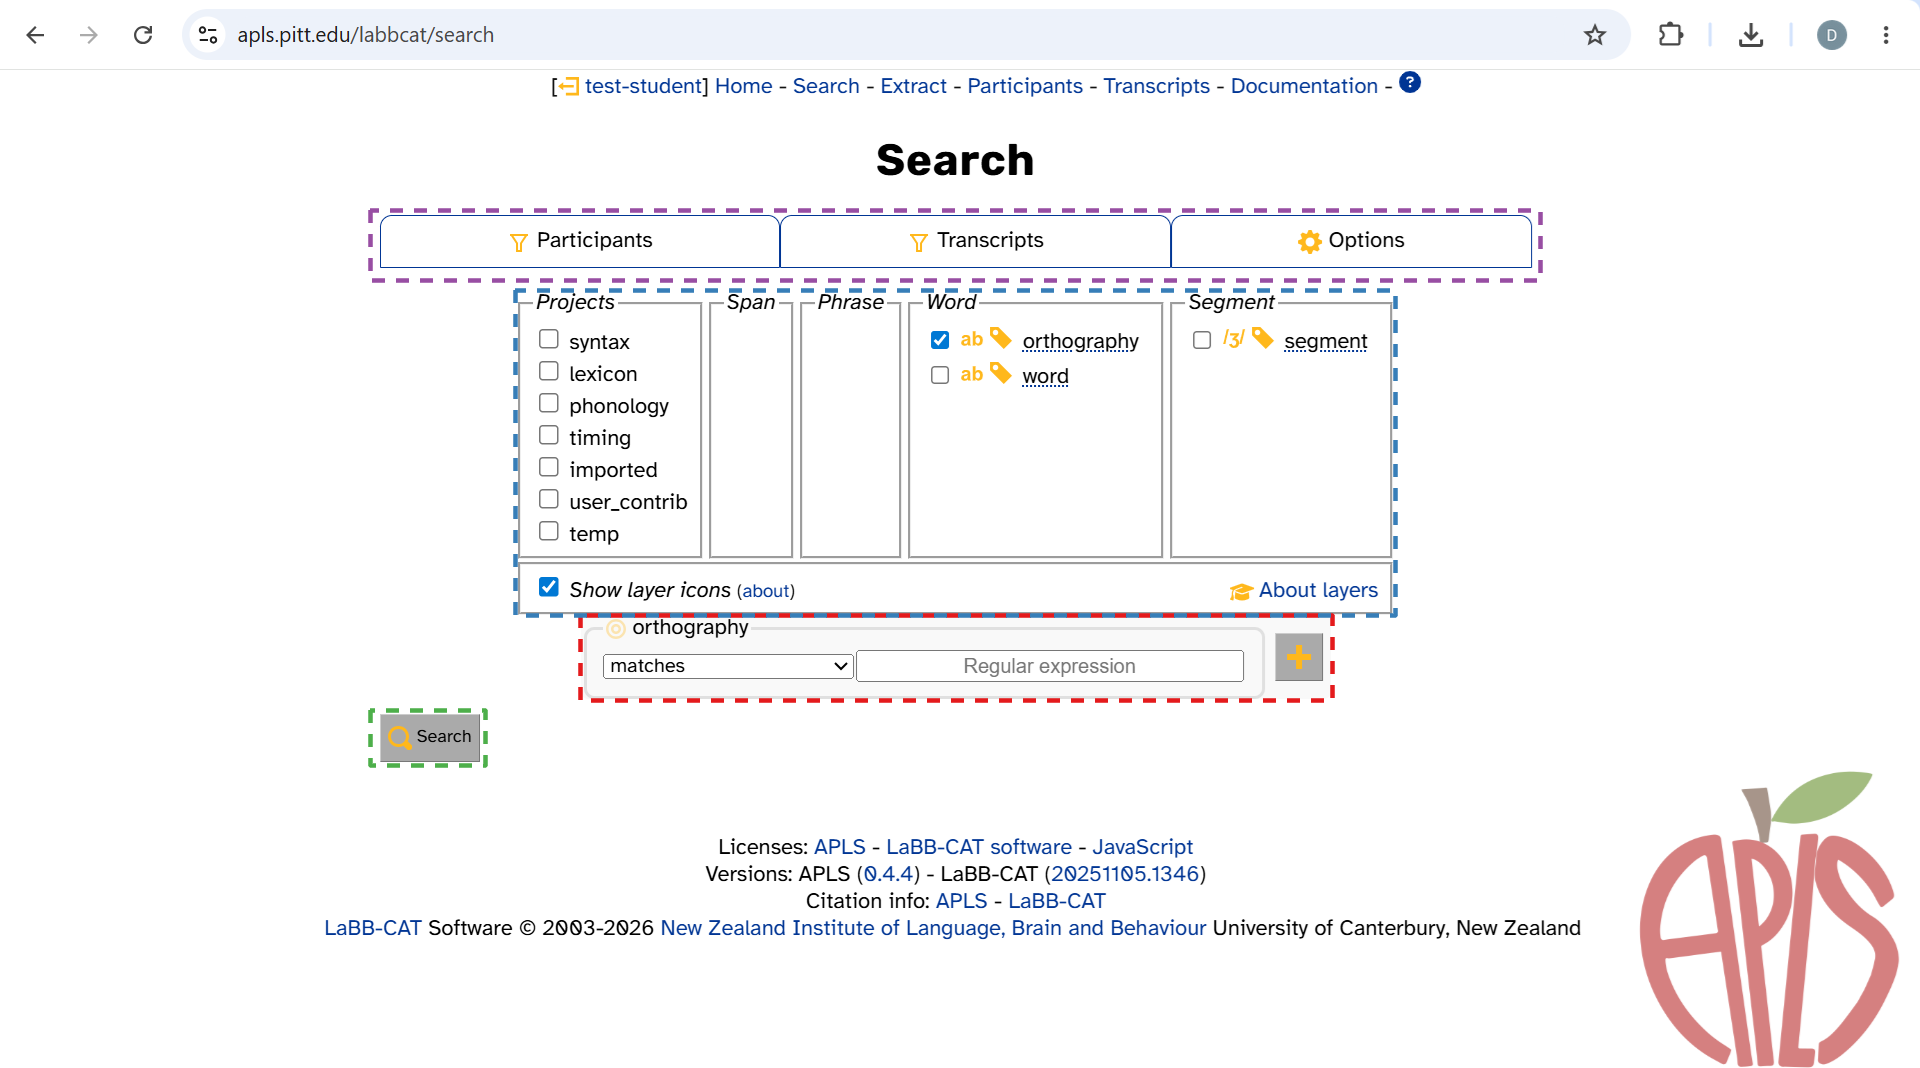
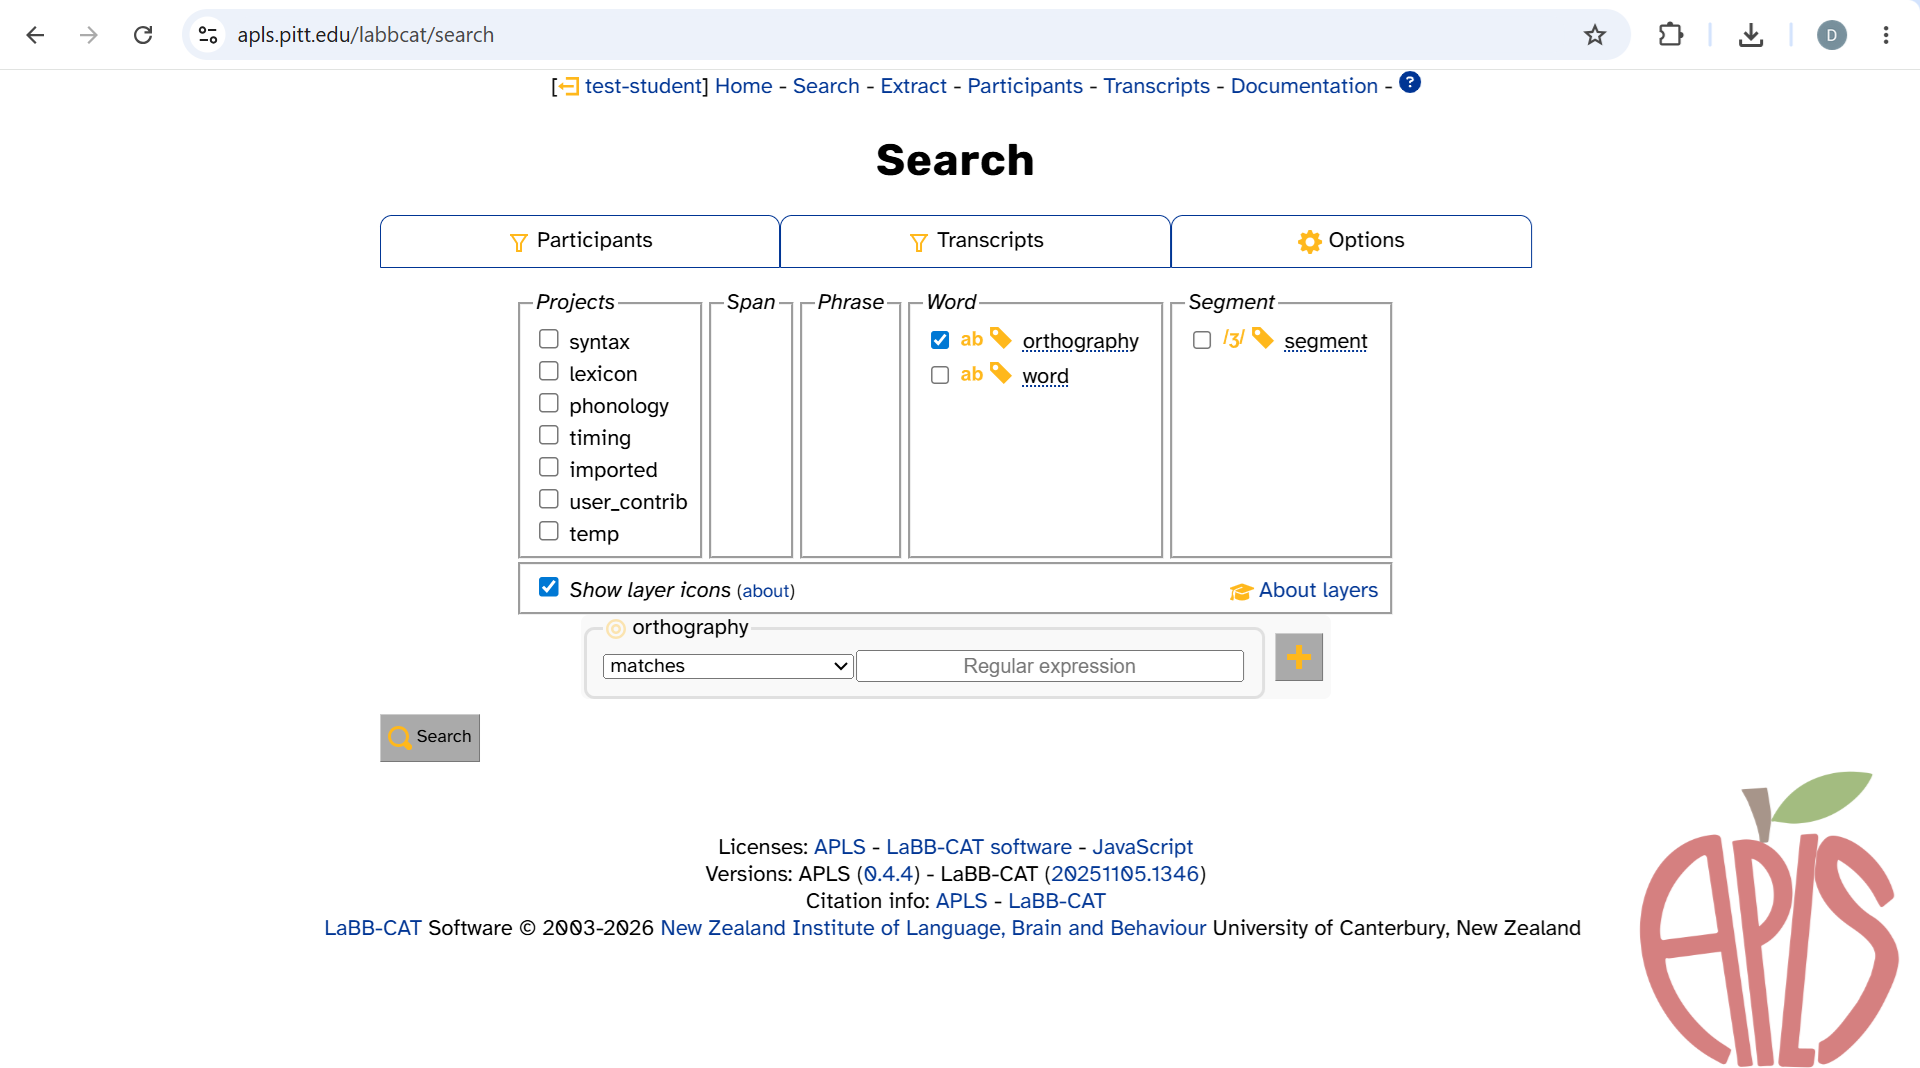
Infrastructure to make layout screengrabs toggleable & proof-of-concept on doc/search

Changed region(s): [[0.25, 0.2472, 0.75, 0.2781], [0.2812, 0.5562, 0.7188, 0.5871]]

diff --git a/_sass/custom/_images.scss b/_sass/custom/_images.scss
@@ -87,3 +87,16 @@ img.screengrab {
   height: 23px;
   border: 2px solid $pitt-gold;
 }
+
+//Layout screengrabs
+.screengrab.layout {
+  margin-bottom: 0;
+}
+a.show-hide-outlines {
+  cursor: pointer;
+  font-style: italic;
+  
+  &:hover {
+    color: $link-hover-color;
+  }
+}

diff --git a/_includes/screengrab.html b/_includes/screengrab.html
@@ -1,1 +1,4 @@
-<img src="{{include.src | prepend: '/assets/screengrab/' | relative_url}}" class="screengrab" alt="{{include.alt | smartify}}">
+{% assign src = include.src | prepend: '/assets/screengrab/' | relative_url -%}
+{%- if include.layout %}{% assign src = src | replace: '.png', '_outlines.png' %}{% endif -%}
+<img src="{{src}}" class="screengrab{% if include.layout %} layout{% endif %}" alt="{{include.alt | smartify}}">
+{%- if include.layout %}<a class="show-hide-outlines fs-3" onclick="let hide = this.innerText == 'Hide outlines', img = this.parentElement.children[0] ; this.innerText = hide ? 'Show outlines' : 'Hide outlines' ; img.src = hide ? img.src.replace('_outlines', '') : img.src.replace('.png', '_outlines.png')">Hide outlines</a>{% endif %}

diff --git a/doc/how-to-use/search/search.md b/doc/how-to-use/search/search.md
@@ -6,7 +6,7 @@ parent: How to use APLS
 has_children: yes
 has_toc: no
 nav_order: 50
-last_modified_date: 2025-11-12T12:17:34-05:00
+last_modified_date: 2026-06-10T14:18:56-04:00
 ---
 
 # {{ page.title }}
@@ -86,7 +86,7 @@ these could also go on the "Searching complex patterns" page but that already ha
 
 The following image shows the <span class="apls-page">Search</span> page when you first load it:
 
-{% include screengrab.html src="search/overview.png" %}
+{% include screengrab.html src="search/overview.png" layout=true %}
 
 - The <span class="keyterm">search matrix</span> (highlighted in **red**{:.hl-1} above).
   - This is where you specify patterns to search.